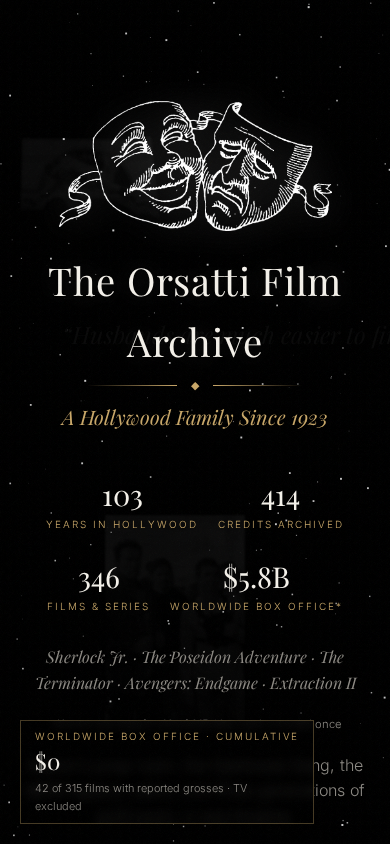
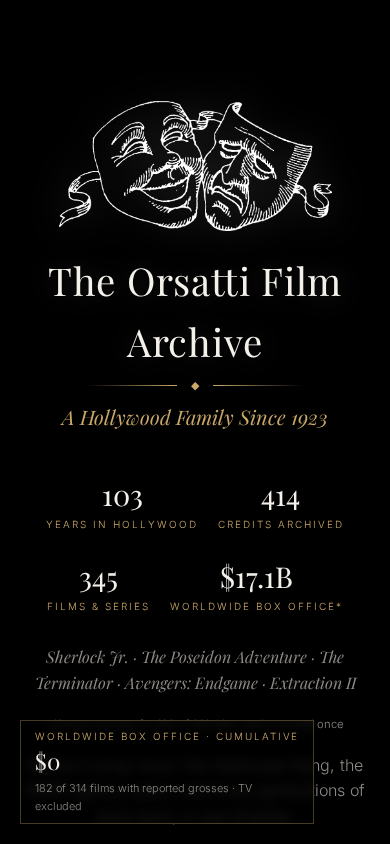
Compact one-line entries, full box office, polish

diff --git a/app.js b/app.js
@@ -12,7 +12,7 @@ fetch('data.json').then(r=>r.json()).then(D=>{
  Object.keys(years).sort((a,b)=>a-b).forEach(y=>{const g=years[y];g.films.forEach(f=>cum+=f.boxOffice||0);
   const el=document.createElement('section');el.className='yr';el.dataset.cum=cum;
   const reel=g.films.map((f,i)=>`<div class="p" data-i="${i}">${f.poster?`<img src="${esc(f.poster)}" alt="${esc(f.title)} poster" loading="lazy">`:`<div class="np">${esc(f.title)}</div>`}<div>${esc(f.title)}</div></div>`).join('');
-  const ents=g.films.flatMap((f,i)=>f.credits.map(c=>`<div class="ent" data-i="${i}"><h3>${esc(f.title)}</h3><div class="who">${esc(c.person)}</div><div class="role">${esc(c.role)}</div></div>`)).join('');
+  const short=p=>p.replace(/ \(.*$/,'').replace(' Orsatti','').replace('"Vic" ','');const ents=g.films.map((f,i)=>`<div class="ent" data-i="${i}"><span class="t">${esc(f.title)}${f.type==='tv'?' <i>TV</i>':''}</span> <span class="who">${f.credits.map(c=>esc(short(c.person))+' <span class="role">'+esc(c.role)+'</span>').join(' · ')}</span></div>`).join('');
   const facts=g.ms.map(m=>m.kind==='person'?`<div class="fact person">${m.p.photo?`<img src="${esc(m.p.photo)}" alt="${esc(m.p.name)}">`:''}<div><div class="k">Enter · Family Member</div><h3>${esc(m.p.name)}</h3>${m.p.birthName?`<div class="src">Born ${esc(m.p.birthName)}</div>`:''}${m.p.relation?`<div class="rel">${esc(m.p.relation)}</div>`:''}<div class="who">${esc(m.p.years||'')}</div><p>${esc(m.p.note)}</p>${m.p.photo?`<div class="src">Photo${m.p.photoCaption?' ('+esc(m.p.photoCaption)+')':''}: ${link(m.p.photoSource)}</div>`:''}${m.p.imdb?`<div class="src">Profile: ${link(m.p.imdb)}</div>`:''}</div></div>`:`<div class="fact ${m.kind}"><div class="k">${KIND[m.kind]||''}</div><h3>${esc(m.title)}</h3><p>${esc(m.text)}</p>${m.flag?`<span class="flag" title="${esc(m.flag)}">†</span>`:''}<div class="src">Sources: ${m.sources.map(link).join(' · ')}</div></div>`).join('');
   const side=(idx++%2)?'r':'l';el.innerHTML=`<div class="side sl">${side==='l'?facts:''}</div><div class="mid"><div class="yhead"><div class="year">${y}</div></div>${g.films.length?`<div class="reel">${reel}</div>`:''}<div class="items">${ents}</div></div><div class="side sr">${side==='r'?facts:''}</div>`;
   el.querySelector('.yhead').onclick=()=>el.classList.toggle('pinned');

diff --git a/styles.css b/styles.css
@@ -79,3 +79,12 @@ main{max-width:none;padding:30px 24px 100px}
 @media(max-width:1000px){.yr{grid-template-columns:1fr;gap:10px}.side{align-items:stretch;order:3}.mid{order:1}.side .fact{max-width:none}}
 .counter{top:auto;bottom:20px;right:auto;left:20px;text-align:left;padding:8px 14px}#bo{font-size:1.4rem}.side .fact .src{opacity:.6}
 .grain{display:none}
+
+.items{display:block!important;margin-top:8px}
+.ent,.ent:nth-child(odd){display:block;text-align:center!important;border:0!important;padding:3px 0!important;font-size:.82rem;line-height:1.35;background:#000}
+.ent .t{font-family:'Playfair Display',serif;font-size:.98rem;color:var(--w)}.ent .t i{font-style:normal;font-size:.6rem;letter-spacing:.15em;color:var(--gold);border:1px solid rgba(201,168,106,.4);padding:0 4px;margin-left:4px;vertical-align:middle}
+.ent .who{color:var(--gold);font-size:.74rem;letter-spacing:.03em}.ent .role{color:var(--dim)}
+.ent:hover .t{color:var(--gold)}
+.mid{background:#000;position:relative;z-index:2;padding:6px 0}
+.yr{margin:10px 0!important}
+.reel .p,.reel img,.reel .np{width:96px}.reel img,.reel .np{height:142px}
